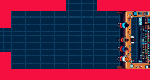
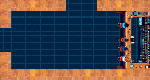
Changed gala rooms so hearts can be seen. #68

Changed region(s): [[0.0, 0.65, 1.0, 1.0], [0.0, 0.0, 0.4533, 0.35], [0.64, 0.0, 1.0, 0.15]]

diff --git a/Main5.py b/Main5.py
@@ -139,7 +139,7 @@ def init_home_screen():
     test_mode = False
     # create the overworld and starting room
     overworld = Overworld()
-    curr_screen = overworld.houseroom3
+    curr_screen = overworld.houseroom1
     if test_mode:
         curr_screen = overworld.cricketroom1
         overworld.cricketroom3.add_key(Key(overworld.cricketroom3, 800, 400, 800, 100))
@@ -189,6 +189,9 @@ def init_home_screen():
         #checks if player is in a room with a key and if they have picked it up - also unlocks rooms if player has key
         overworld.pickupkeys(player1, curr_screen)
         overworld.unlockroom(player1, curr_screen, screen)
+        
+        # prevents player and obstacle collision
+        overworld.obstacles_in_biome(player1, curr_screen, direction_for_collision)
 
         #renders page (items, players, background, monsters)
         curr_screen.render(curr_screen_x_pos, curr_screen_y_pos, player1, screen)
@@ -327,13 +330,11 @@ def init_home_screen():
                 gameLoop=False
                 pygame.quit()
                 sys.exit()
-
-        # prevents player and obstacle collision
-        overworld.obstacles_in_biome(player1, curr_screen, direction_for_collision)
         
         #handles monsters dropping keys to unlock dungeons
         overworld.monsterkeydrop(player1, curr_screen)
         overworld.keydrop(player1, curr_screen)
+        
         #handles player movement and renders health
         player1.handlemove(direction, framecounter, firstchange)
         player1.renderhealth(10, 10, screen)

diff --git a/Overworld.py b/Overworld.py
@@ -667,6 +667,7 @@ class Overworld(Room):
     def obstacles_in_biome(self, player:Player2, biome:Biome, direction:str):
         obstacle_rects = biome.obstacles_rect
         obstacle_rects += biome.key_obstacles_rect
+        print(len(biome.key_obstacles_rect))
         # go through each obstacle in the room and check if the player is touching it
         for obstacle_rect in obstacle_rects:
             if player.player_rectangle.colliderect(obstacle_rect):
